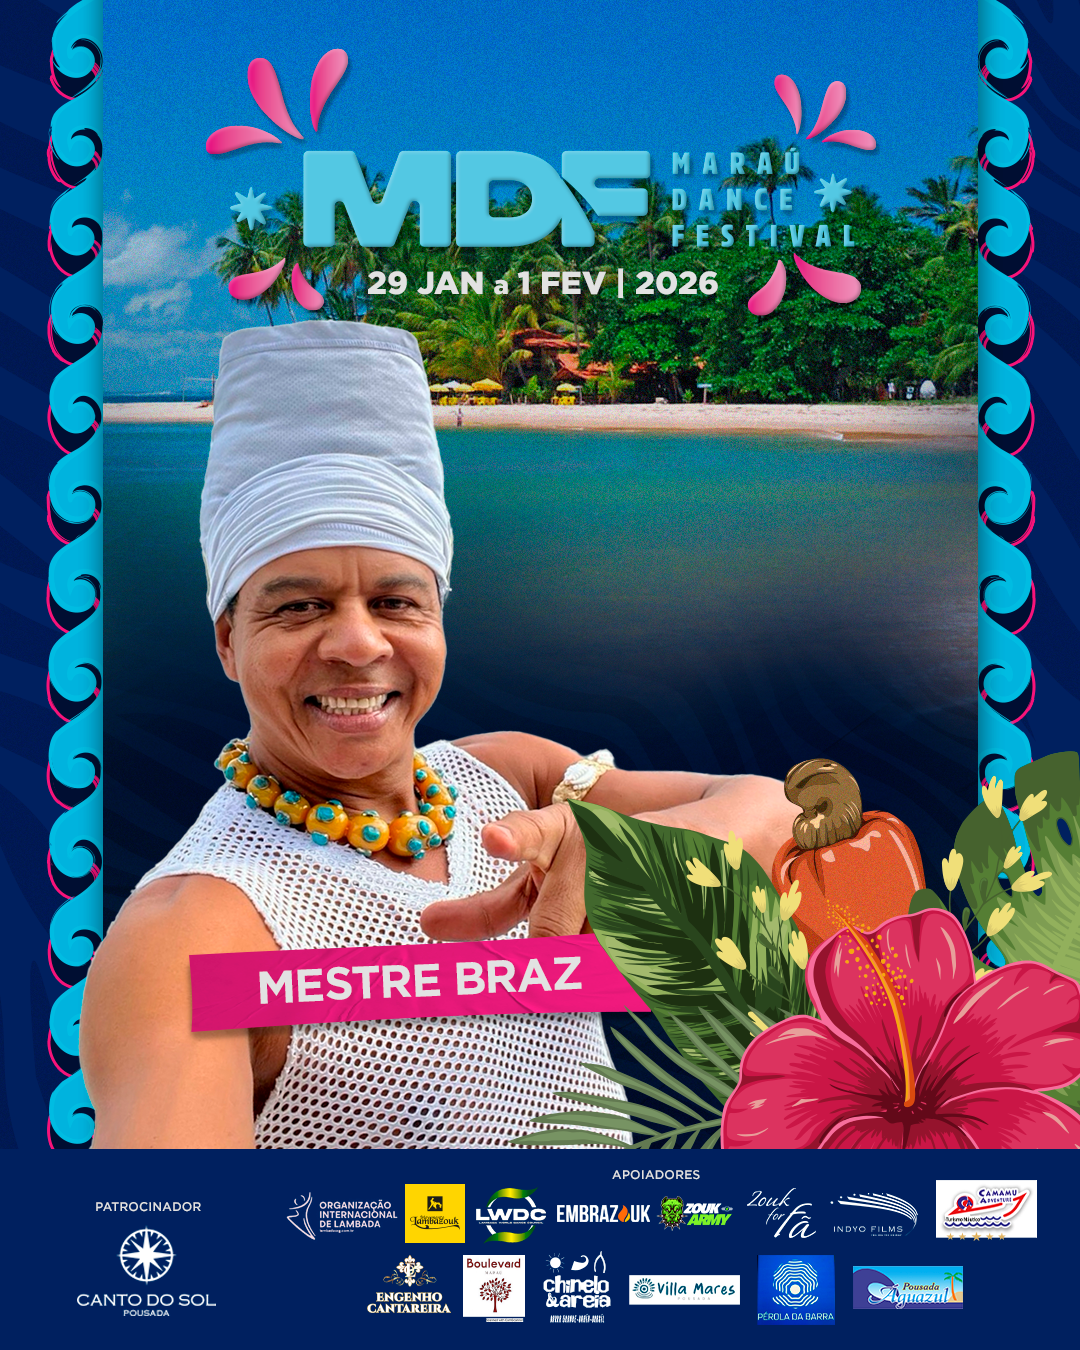
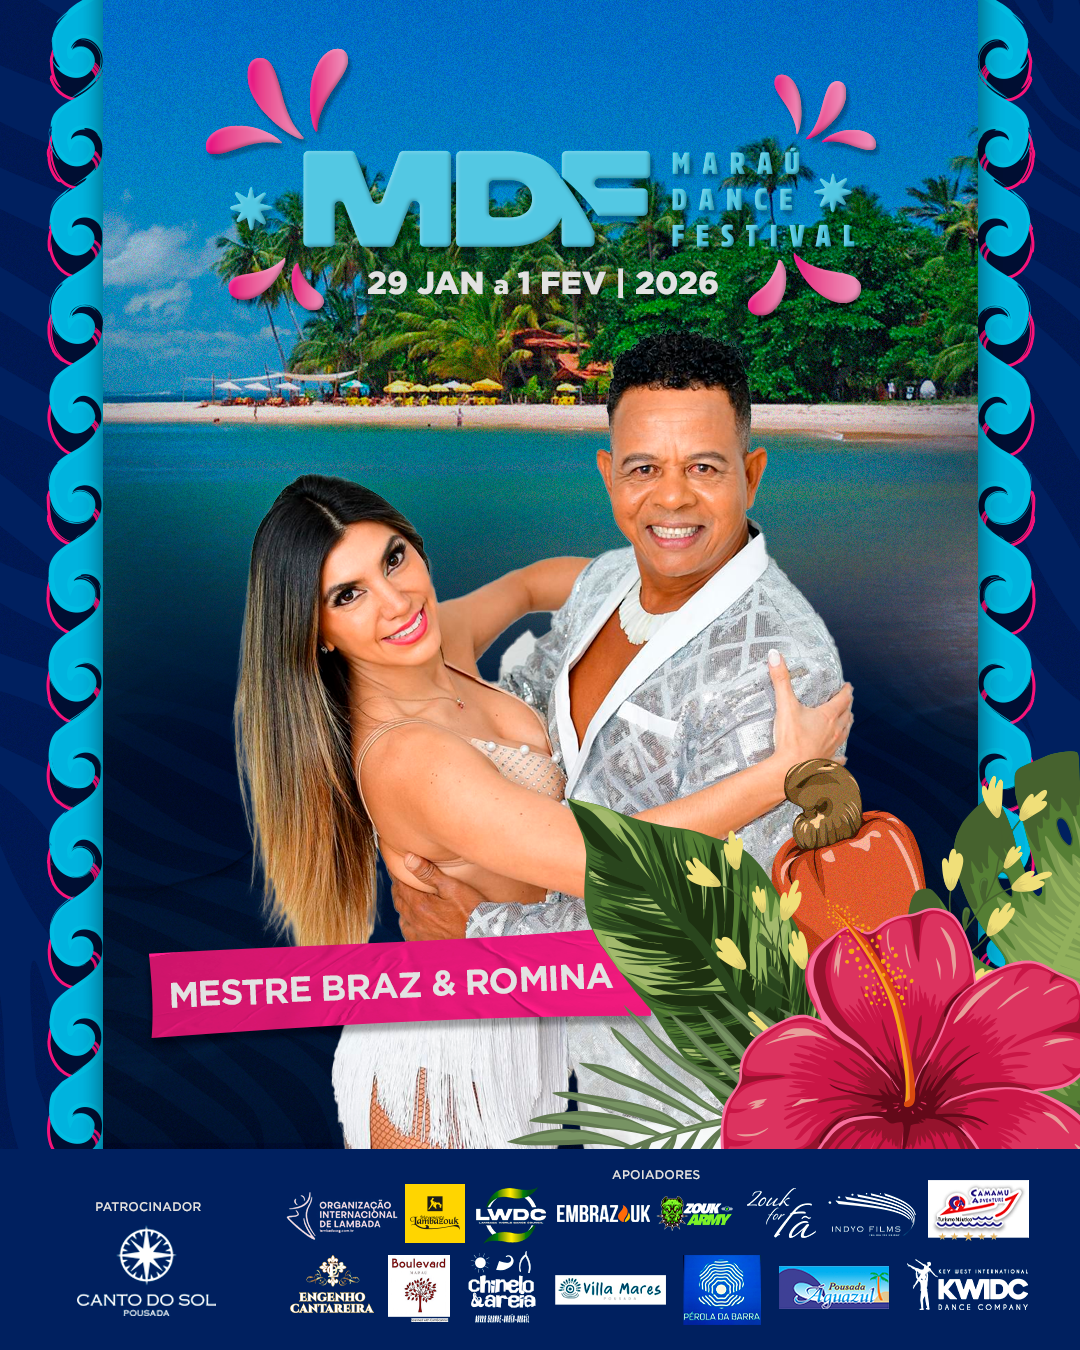
Atualização artistas

Changed region(s): [[0.0611, 0.2178, 0.7944, 0.8711], [0.275, 0.8711, 0.9778, 0.9956]]

diff --git a/professores_espanhol.html b/professores_espanhol.html
@@ -84,7 +84,9 @@
             <img src="imagens/professores/dj STEF.png" alt="">
             <img src="imagens/professores/dj val.png" alt="">
             <img src="imagens/professores/dj ZE DO LAGOO.png" alt="">
-    
+            <img src="imagens/professores/dj ginga.png" alt="">
+            <img src="imagens/professores/dj martin.png" alt="">
+
     
     
         </div>

diff --git a/professores_ingles.html b/professores_ingles.html
@@ -82,6 +82,9 @@
             <img src="imagens/professores/dj STEF.png" alt="">
             <img src="imagens/professores/dj val.png" alt="">
             <img src="imagens/professores/dj ZE DO LAGOO.png" alt="">
+            <img src="imagens/professores/dj ginga.png" alt="">
+            <img src="imagens/professores/dj martin.png" alt="">
+
     
     
     

diff --git a/pag003.html b/pag003.html
@@ -83,7 +83,8 @@
         <img src="imagens/professores/dj STEF.png" alt="">
         <img src="imagens/professores/dj val.png" alt="">
         <img src="imagens/professores/dj ZE DO LAGOO.png" alt="">
-
+        <img src="imagens/professores/dj ginga.png" alt="">
+        <img src="imagens/professores/dj martin.png" alt="">
 
 
     </div>

diff --git a/hospedagem_espanhol.html b/hospedagem_espanhol.html
@@ -214,9 +214,6 @@
         <div class="item">
             <img src="fotos/Pousadas/MDF_ACOMODAÇÕES_04.jpg" alt="">
         </div>
-        <div class="item">
-            <img src="fotos/Pousadas/MDF_ACOMODAÇÕES_05.jpg" alt="">
-        </div>
     </div>
 
 

diff --git a/hospedagem_ingles.html b/hospedagem_ingles.html
@@ -213,9 +213,6 @@
         <div class="item">
             <img src="fotos/Pousadas/MDF_ACOMODAÇÕES_04.jpg" alt="">
         </div>
-        <div class="item">
-            <img src="fotos/Pousadas/MDF_ACOMODAÇÕES_05.jpg" alt="">
-        </div>
     </div>
 
 

diff --git a/pag005.html b/pag005.html
@@ -214,9 +214,6 @@
         <div class="item">
             <img src="fotos/Pousadas/MDF_ACOMODAÇÕES_04.jpg" alt="">
         </div>
-        <div class="item">
-            <img src="fotos/Pousadas/MDF_ACOMODAÇÕES_05.jpg" alt="">
-        </div>
     </div>
 
 
